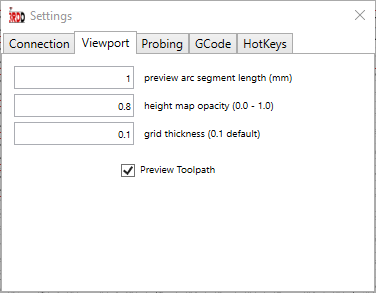
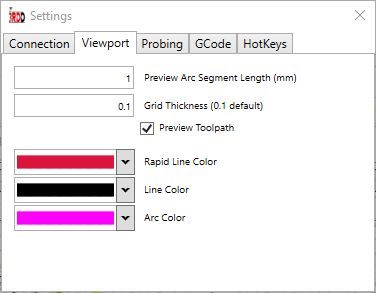
Updated Settings Panel Information

diff --git a/_pages/settings.md b/_pages/settings.md
@@ -32,6 +32,9 @@ This is where you can change various options of the job display.
 * Height Map Opacity (Currently not used and will be removed in future versions).
 * Grid Thickness (default 0.1).
 * Preview Toolpath.
+* Customize color of Toolpath Rapid lines.
+* Customize color of Toolpath lines.
+* Customize color of Toolpath Arc lines
 
 ## Probing Tab
 
@@ -43,7 +46,7 @@ Here you will find settings relevent to the probing button found on the [Probing
 * Abort and Single on Probe Fail - If checked, an error will be displayed if probe cycle exceeded Max Probe Distance.
 * Safe Retract Height (mm) - The amount Z will raise by after a successfull probing.
 * Max Probe Distance (mm) - How far Z will lower to find yuor touch plate and if exceeds will abort.
-* Probe Thickeness (mm) - Thickness of our probe/touch plate which will be used to set tool zero.
+* Probe Thickeness (mm) - Thickness of your probe/touch plate.
 
 ## GCode Tab
 
@@ -57,10 +60,6 @@ This tab contains various options in relation to GCode, for the Sender and for t
 * Warning Window on File Load - If checked, information on what is being ignored when a file is loaded will be displayed.  **Note** any ingnored commands are only relevent to the displaying of the file, ingnored commands are still sent to the controller.
 * FeedRate Inc/Dec - If checked feed rate will be increased or decreased by 10 each time (if using Hotkey).
 * Spindle Inc/Dec - If checked Spindle will be increased or decreased by 10 each time (if using Hotkey).
-* Zero All Command - Customise your Zero All Command sent to controller.
-* Zero X Command - Customise your Zero X Command sent to controller.
-* Zero Y Command - Customise your Zero Y Command sent to controller.
-* Zero Z Command - Customise your Zero Z Command sent to controller.
 
 ## HotKey Tab 
 **Added in Version 2.0.1.1**

diff --git a/index.md b/index.md
@@ -12,9 +12,9 @@ header:
 
 ![3RDD GCode Sender Main Screen](/images/wiki/3rddgcs_main.png)
 
-3RDD GCode Sender is another GRBL streaming program (similar to UGS, bCNC etc) derived and highely continously modified from OpenCNCPilot (more PCB placed) to more towards to general CNC routing and is continously being developed with new and improved features.
+3RDD GCode Sender is another GRBL streaming program (similar to UGS, bCNC etc) derived and highly continously modified from OpenCNCPilot (more PCB placed) to more towards to general CNC routing and is continously being developed with new and improved features.
 
-Some of the current enchancements include configurable hotkeys, customizable colors for the 3D workspace (Rapids, Lines and Arcs), Jogging buttons, Autoupdater, Export GRBL settings to a formatted file.
+Some of the current enhancements include configurable hotkeys, customizable colors for the 3D workspace (Rapids, Lines and Arcs), Jogging buttons, Autoupdater, and Export GRBL settings to a formatted file and other cnc routing tweaks and functions.
 
 To get an over-view of what the program currently has, click on the Wiki link at the top and have a look through each section.  Any features or bugs that you encounter please use our issue link to github above and let us know.
 
